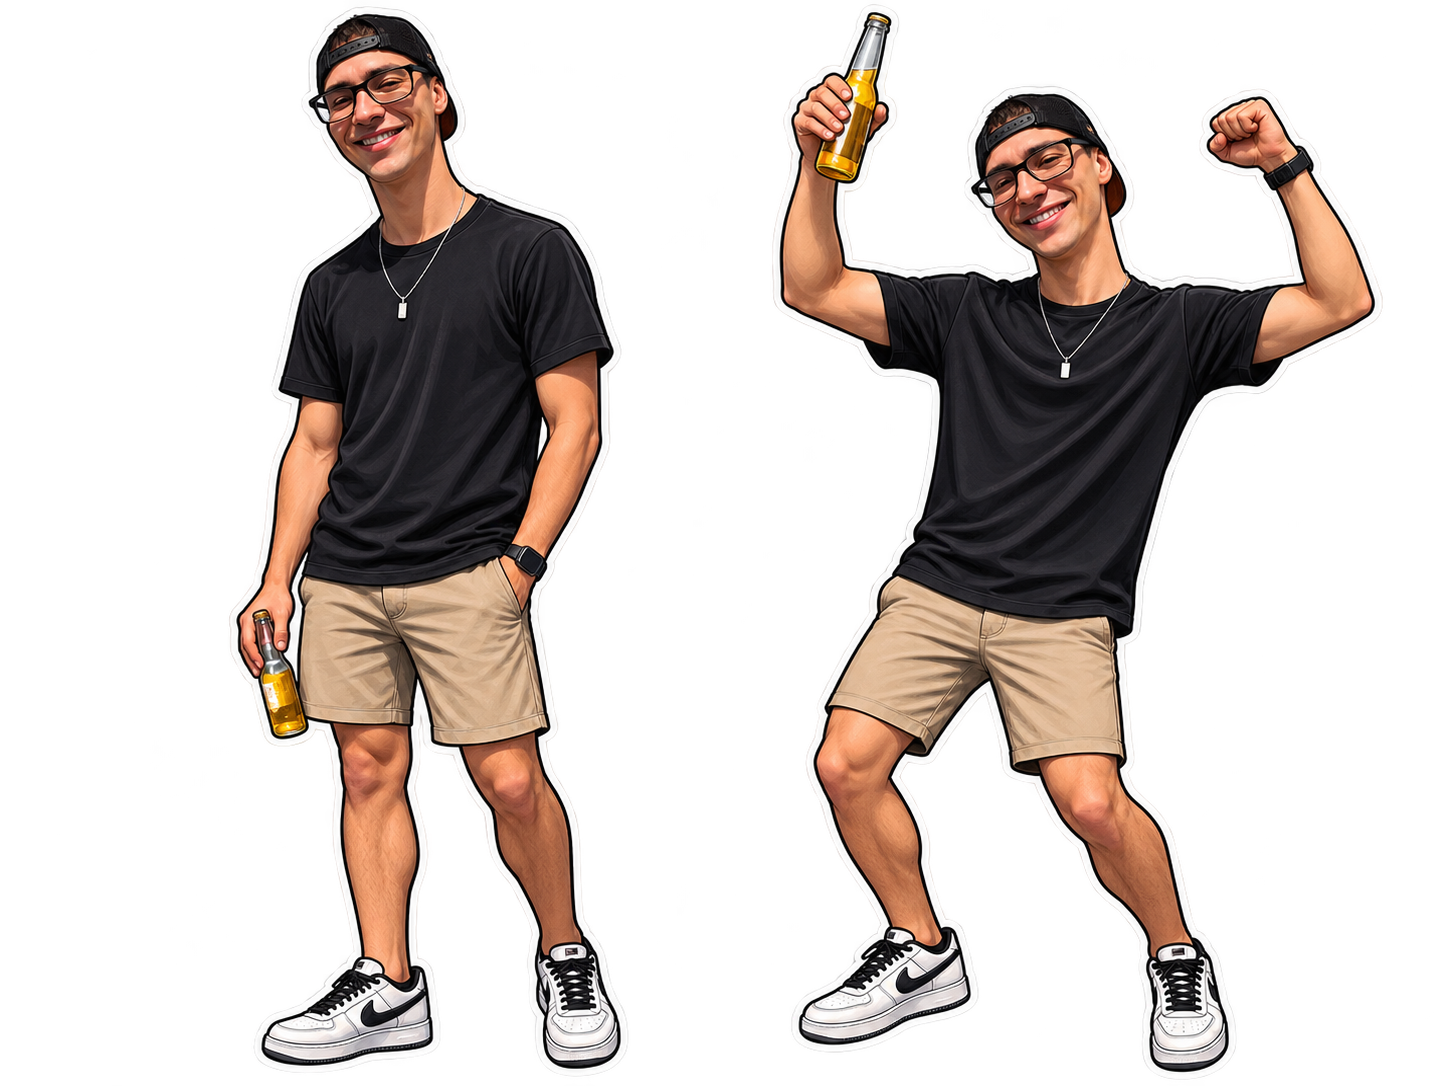
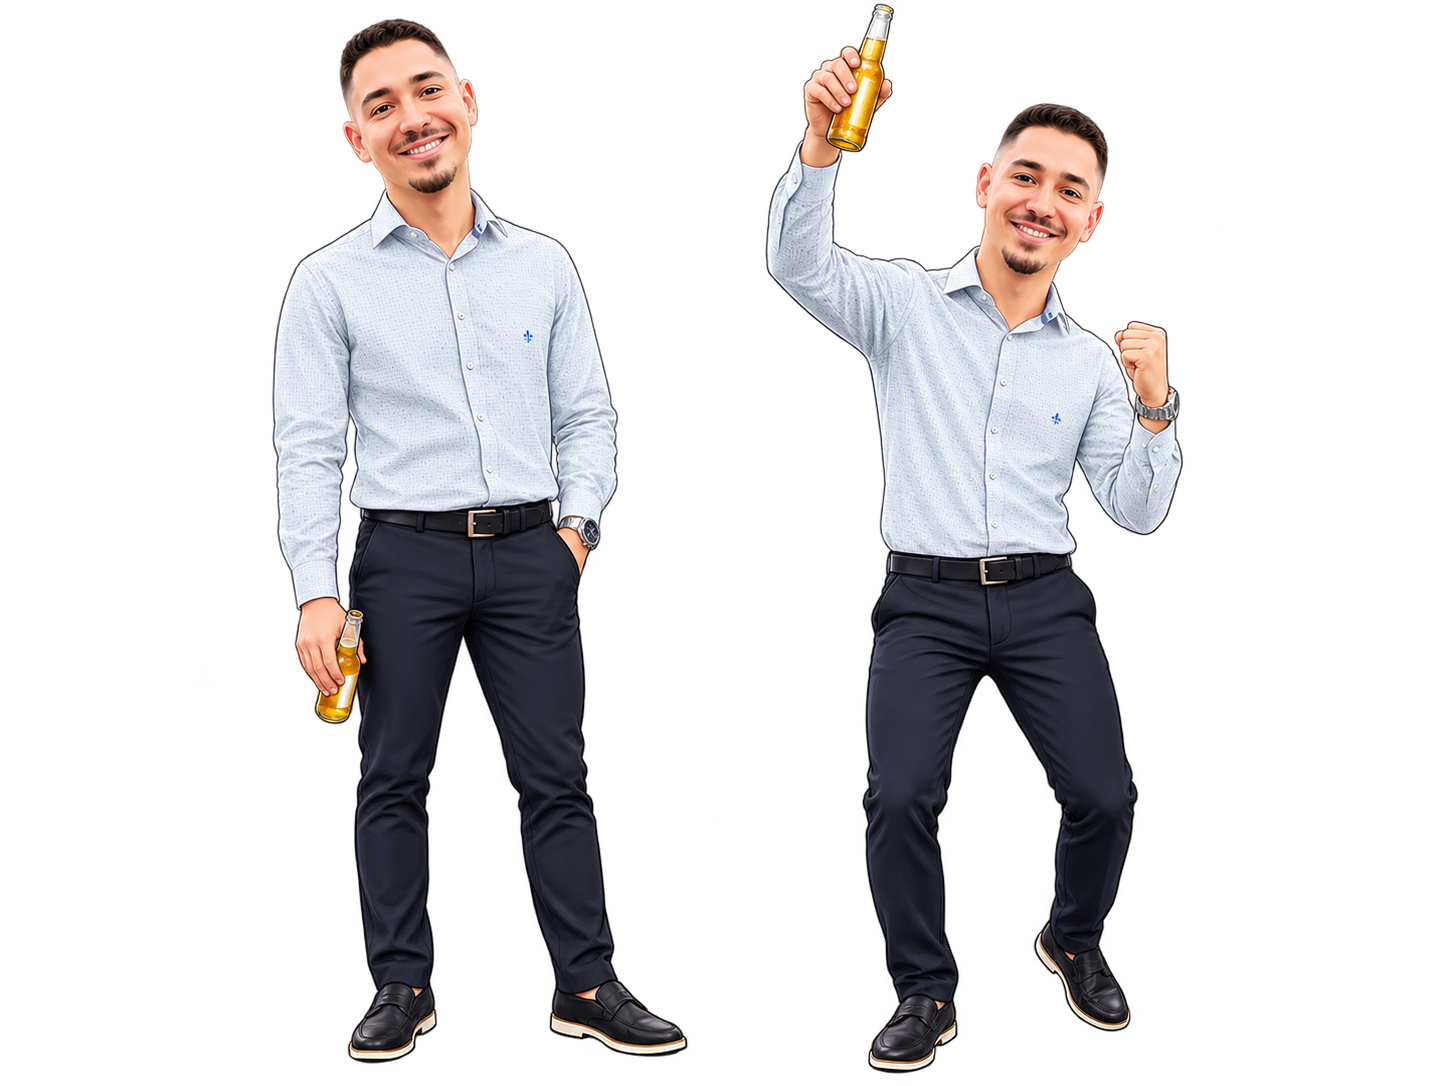
Add player balance challenge

diff --git a/src/pages/BarGame.tsx b/src/pages/BarGame.tsx
@@ -16,10 +16,12 @@ export default function BarGame() {
   const backgroundPeopleRefs = useRef<Record<string, HTMLImageElement>>({});
   const backgroundPeopleFrames = useRef<Record<string, HTMLCanvasElement>>({});
   const backgroundCastRef = useRef([0, 1, 2, 3]);
+  const backgroundDeckRef = useRef<number[]>([]);
   const walkerSpriteRefs = useRef<Record<Character, HTMLImageElement>>({} as Record<Character, HTMLImageElement>);
   const walkerFramesRef = useRef<Record<Character, HTMLCanvasElement[]>>({ jackson: [], ginaldo: [] });
   const bottleFramesRef = useRef<HTMLImageElement[]>([]);
   const remedyImagesRef = useRef<Record<string, HTMLImageElement>>({});
+  const fallenPlayerRefs = useRef<Record<Character, HTMLImageElement>>({} as Record<Character, HTMLImageElement>);
   const backgroundRef = useRef<HTMLImageElement | null>(null);
   const audioRefs = useRef<Record<string, HTMLAudioElement>>({});
   const gameStartingRef = useRef(false);
@@ -41,17 +43,16 @@ export default function BarGame() {
     });
     activeEffectsRef.current.forEach((audio) => audio.pause());
     activeEffectsRef.current.clear();
-    const previousCast = [...backgroundCastRef.current].sort((a, b) => a - b).join(",");
-    let nextCast: number[] = [];
-    for (let attempt = 0; attempt < 6; attempt++) {
-      nextCast = Array.from({ length: 12 }, (_, index) => index);
-      for (let index = nextCast.length - 1; index > 0; index--) {
+    if (backgroundDeckRef.current.length < 4) {
+      const used = new Set(backgroundDeckRef.current);
+      const refill = Array.from({ length: 12 }, (_, index) => index).filter((index) => !used.has(index));
+      for (let index = refill.length - 1; index > 0; index--) {
         const swapIndex = Math.floor(Math.random() * (index + 1));
-        [nextCast[index], nextCast[swapIndex]] = [nextCast[swapIndex], nextCast[index]];
+        [refill[index], refill[swapIndex]] = [refill[swapIndex], refill[index]];
       }
-      nextCast = nextCast.slice(0, 4);
-      if ([...nextCast].sort((a, b) => a - b).join(",") !== previousCast) break;
+      backgroundDeckRef.current.push(...refill);
     }
+    const nextCast = backgroundDeckRef.current.splice(0, 4);
     backgroundCastRef.current = nextCast;
     setScore(0);
     setDrunk(0);
@@ -91,6 +92,15 @@ export default function BarGame() {
       const image = new Image();
       image.src = src;
       drunkPoseRefs.current[key as Character] = image;
+    });
+    const fallen: Record<Character, string> = {
+      jackson: "/bar-game/jackson-caido.png",
+      ginaldo: "/bar-game/ginaldo-caido.png",
+    };
+    Object.entries(fallen).forEach(([key, src]) => {
+      const image = new Image();
+      image.src = src;
+      fallenPlayerRefs.current[key as Character] = image;
     });
     const people = Array.from({ length: 12 }, (_, index) => `/bar-game/figurante-${index + 1}.png`);
     const isolatePerson = (image: HTMLImageElement, column: number, columns: number, row: number, widthScale = 1, rows = 2, heightScale = 1) => {
@@ -251,6 +261,11 @@ export default function BarGame() {
     let celebrateUntil = 0;
     let lastCheerAt = -3;
     let nextBurpAt = 4 + Math.random() * 3;
+    let balance = 0;
+    let balanceVelocity = 0;
+    let balancePush = (Math.random() < 0.5 ? -1 : 1) * 0.08;
+    let nextBalanceShift = 1.2;
+    let fellAt = -1;
     const keys = new Set<string>();
     const items: FallingItem[] = [];
     const playAudio = (key: "cheer" | "burp" | "drink") => {
@@ -491,6 +506,61 @@ export default function BarGame() {
       ctx.restore();
     };
 
+    const drawFallenPlayer = () => {
+      const image = fallenPlayerRefs.current[selectedCharacter];
+      if (!image?.complete || !image.naturalWidth) return;
+      const maxW = width * 0.88;
+      const maxH = height * 0.43;
+      const scale = Math.min(maxW / image.naturalWidth, maxH / image.naturalHeight);
+      const drawW = image.naturalWidth * scale;
+      const drawH = image.naturalHeight * scale;
+      ctx.save();
+      ctx.globalAlpha = Math.min(1, (elapsed - fellAt) * 4);
+      ctx.drawImage(image, width / 2 - drawW / 2, height - 18 - drawH, drawW, drawH);
+      ctx.restore();
+    };
+
+    const drawBalanceBar = () => {
+      const barW = Math.min(280, width * 0.68);
+      const barH = 18;
+      const x = (width - barW) / 2;
+      const y = 102;
+      ctx.save();
+      ctx.fillStyle = "rgba(10,8,6,.82)";
+      ctx.strokeStyle = "rgba(255,255,255,.72)";
+      ctx.lineWidth = 2;
+      ctx.beginPath();
+      ctx.roundRect(x - 8, y - 25, barW + 16, 53, 10);
+      ctx.fill();
+      ctx.stroke();
+      ctx.fillStyle = "white";
+      ctx.font = "800 11px system-ui, sans-serif";
+      ctx.textAlign = "center";
+      ctx.fillText("EQUILIBRIO", width / 2, y - 10);
+      const gradient = ctx.createLinearGradient(x, 0, x + barW, 0);
+      gradient.addColorStop(0, "#dc2626");
+      gradient.addColorStop(0.28, "#f59e0b");
+      gradient.addColorStop(0.5, "#22c55e");
+      gradient.addColorStop(0.72, "#f59e0b");
+      gradient.addColorStop(1, "#dc2626");
+      ctx.fillStyle = gradient;
+      ctx.beginPath();
+      ctx.roundRect(x, y, barW, barH, 6);
+      ctx.fill();
+      const markerX = x + ((balance + 1) / 2) * barW;
+      ctx.fillStyle = "white";
+      ctx.strokeStyle = "#111827";
+      ctx.lineWidth = 3;
+      ctx.beginPath();
+      ctx.moveTo(markerX, y - 7);
+      ctx.lineTo(markerX - 8, y + barH + 7);
+      ctx.lineTo(markerX + 8, y + barH + 7);
+      ctx.closePath();
+      ctx.fill();
+      ctx.stroke();
+      ctx.restore();
+    };
+
     const render = (now: number) => {
       if (stopped) return;
       const dt = Math.max(0, Math.min((now - last) / 1000, 0.04));
@@ -508,6 +578,19 @@ export default function BarGame() {
       }
       const previousX = playerX;
       const keyboardDirection = (keys.has("arrowright") || keys.has("d") ? 1 : 0) - (keys.has("arrowleft") || keys.has("a") ? 1 : 0);
+      const pointerDirection = dragging && Math.abs(targetX - playerX) > 8 ? Math.sign(targetX - playerX) : 0;
+      const controlDirection = keyboardDirection || pointerDirection;
+      if (fellAt < 0) {
+        if (elapsed >= nextBalanceShift) {
+          balancePush = (Math.random() * 2 - 1) * (0.1 + intoxication * 0.34);
+          nextBalanceShift = elapsed + 0.75 + Math.random() * 1.15;
+        }
+        const instability = 0.11 + intoxication * 0.48;
+        balanceVelocity += (balancePush + balance * instability - controlDirection * (0.72 + intoxication * 0.18)) * dt;
+        balanceVelocity *= Math.pow(0.34, dt);
+        balance += balanceVelocity * dt;
+        if (Math.abs(balance) >= 1) fellAt = elapsed;
+      }
       if (keyboardDirection !== 0) {
         targetX = Math.max(45, Math.min(width - 45, targetX + keyboardDirection * 330 * dt));
       }
@@ -575,11 +658,13 @@ export default function BarGame() {
       const sway = Math.sin(elapsed * 2.4) * intoxication * 8;
       ctx.translate(sway, Math.cos(elapsed * 1.8) * intoxication * 3);
       items.forEach(drawItem);
-      drawPlayer(playerX, playerY, Math.abs(playerX - previousX) > 0.25);
+      if (fellAt < 0) drawPlayer(playerX, playerY, Math.abs(playerX - previousX) > 0.25);
+      else drawFallenPlayer();
       ctx.restore();
       ctx.restore();
+      drawBalanceBar();
 
-      if (secondsLeft <= 0) {
+      if (secondsLeft <= 0 || (fellAt >= 0 && elapsed - fellAt >= 1.35)) {
         musicShouldPlayRef.current = false;
         Object.values(audioRefs.current).forEach((audio) => {
           try { audio.pause(); audio.currentTime = 0; } catch {}
